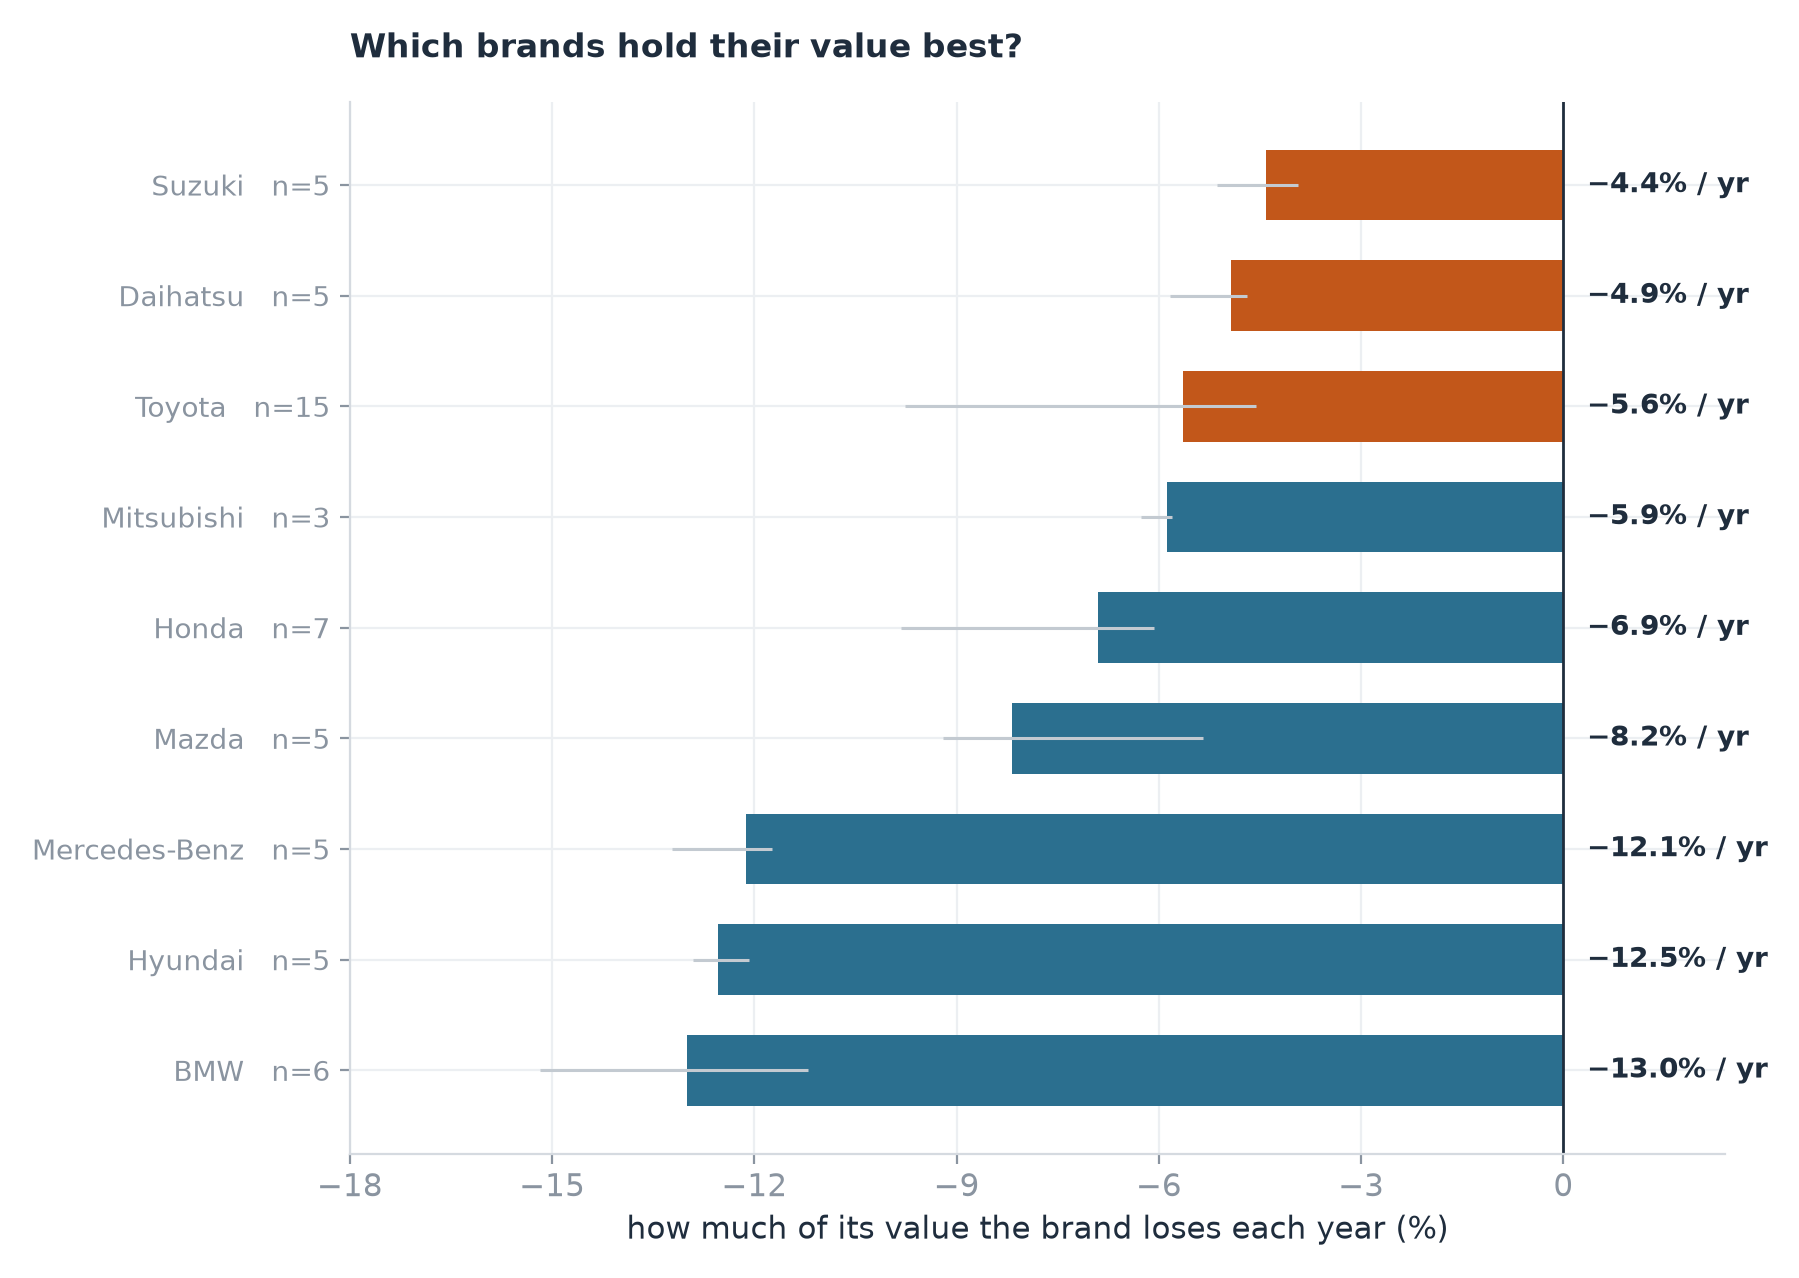
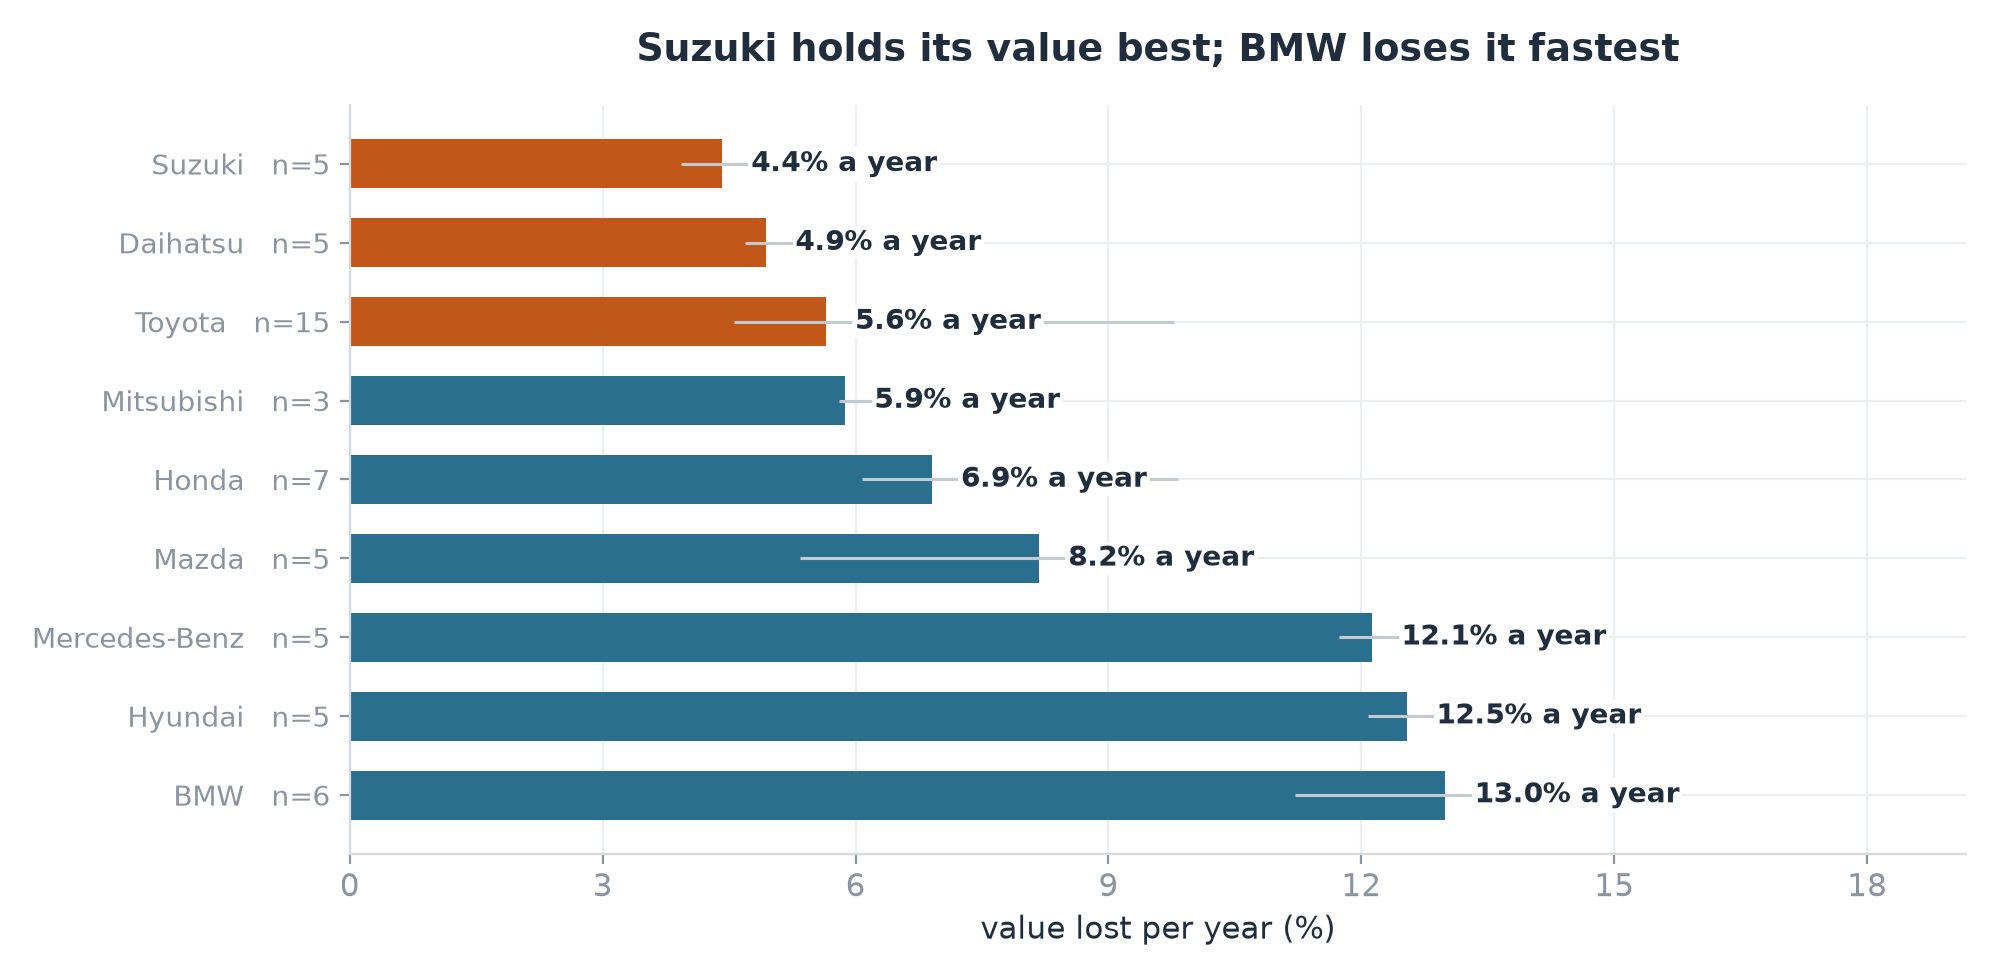
Centre every chart title and state findings instead of asking questions
Chart titles are now declarative sentences, centred and at one size, so the page reads as a set of findings rather than a quiz. The brand-retention chart plots the yearly loss as a positive number, which removes the minus signs and the ambiguity about which direction they point; its canvas is wider and shorter so it no longer runs down the page. The feature-importance chart gets the same treatment.

diff --git a/projects/02-used-car-market/eda.py b/projects/02-used-car-market/eda.py
@@ -128,19 +128,25 @@ def chart_brand_retention(series: pd.DataFrame) -> pd.DataFrame:
     )
     summary = summary[summary["count"] >= 3].sort_values("median", ascending=False)
 
-    fig, ax = plt.subplots(figsize=(9, 6.4))
+    # Plot the yearly loss as a positive number: "4.4% a year" reads better than
+    # "−4.4%", and it removes the question of which way the minus points.
+    loss = (1 - summary["median"]) * 100
+    loss_low = (1 - summary["q3"]) * 100
+    loss_high = (1 - summary["q1"]) * 100
+
+    fig, ax = plt.subplots(figsize=(10, 4.9))
     y = np.arange(len(summary))
     colors = [ACCENT if i < 3 else COOL for i in range(len(summary))]
     ax.barh(
-        y, (summary["median"] - 1) * 100,
-        xerr=[(summary["median"] - summary["q1"]) * 100,
-              (summary["q3"] - summary["median"]) * 100],
-        color=colors, height=0.64,
+        y, loss,
+        xerr=[loss - loss_low, loss_high - loss],
+        color=colors, height=0.62,
         error_kw={"ecolor": "#c3cad1", "lw": 1.1, "capsize": 0},
     )
-    for yi, (_, row) in enumerate(summary.iterrows()):
-        ax.text(0.35, yi, f"−{(1-row['median'])*100:.1f}% / yr", va="center",
-                ha="left", fontsize=10, color=INK, fontweight="bold")
+    for yi, value in enumerate(loss):
+        ax.text(value + 0.35, yi, f"{value:.1f}% a year", va="center",
+                ha="left", fontsize=10, color=INK, fontweight="bold",
+                bbox={"facecolor": "white", "edgecolor": "none", "pad": 1.0})
 
     ax.set_yticks(y)
     ax.set_yticklabels(
@@ -148,11 +154,11 @@ def chart_brand_retention(series: pd.DataFrame) -> pd.DataFrame:
         fontsize=10,
     )
     ax.invert_yaxis()
-    ax.axvline(0, color=INK, lw=1)
-    ax.set_xlim((summary["q1"].min() - 1) * 100 * 1.08, 2.4)
-    ax.set_xticks([-18, -15, -12, -9, -6, -3, 0])
-    ax.set_xlabel("how much of its value the brand loses each year (%)")
-    ax.set_title("Which brands hold their value best?", loc="left", pad=16)
+    ax.set_xlim(0, loss_high.max() + 4)
+    ax.set_xticks(range(0, 19, 3))
+    ax.set_xlabel("value lost per year (%)")
+    ax.set_title("Suzuki holds its value best; BMW loses it fastest",
+                 loc="center", pad=16, fontsize=13.5)
     fig.tight_layout()
     save(fig, "01_brand_retention.png")
     return summary
@@ -193,10 +199,10 @@ def chart_retention_curves(df: pd.DataFrame, series: pd.DataFrame) -> None:
     axes[0, 0].set_ylim(0, 145)
     axes[0, 0].set_xticks(range(1, 16, 2))
 
-    fig.suptitle("How fast each model loses value",
-                 x=0.005, y=0.985, ha="left", va="top",
+    fig.suptitle("Every model loses value at its own pace",
+                 x=0.5, y=0.975, ha="center", va="top",
                  fontsize=13.5, fontweight="bold")
-    fig.tight_layout(rect=[0, 0, 1, 0.93])
+    fig.tight_layout(rect=[0, 0, 1, 0.92])
     save(fig, "02_retention_curves.png")
 
 
@@ -279,9 +285,9 @@ def chart_transmission(df: pd.DataFrame, cells: pd.DataFrame) -> None:
     ax2.set_title("B. Comparing the same model and year", loc="left", pad=12)
 
     fig.suptitle("Automatic cars only look expensive until you compare like with like",
-                 x=0.005, y=0.985, ha="left", va="top",
-                 fontsize=14, fontweight="bold")
-    fig.tight_layout(rect=[0, 0, 1, 0.93])
+                 x=0.5, y=0.975, ha="center", va="top",
+                 fontsize=13.5, fontweight="bold")
+    fig.tight_layout(rect=[0, 0, 1, 0.92])
     save(fig, "03_transmission_premium.png")
 
 
@@ -356,9 +362,9 @@ def chart_mileage(df: pd.DataFrame) -> dict:
              fontsize=11, color=ACCENT, fontweight="bold")
 
     fig.suptitle("High mileage looks expensive — until you compare the same model",
-                 x=0.005, y=0.985, ha="left", va="top",
-                 fontsize=14, fontweight="bold")
-    fig.tight_layout(rect=[0, 0, 1, 0.93])
+                 x=0.5, y=0.975, ha="center", va="top",
+                 fontsize=13.5, fontweight="bold")
+    fig.tight_layout(rect=[0, 0, 1, 0.92])
     save(fig, "04_mileage_illusion.png")
     return {"gaps": gaps, "raw": raw}
 
@@ -399,9 +405,9 @@ def chart_structure(df: pd.DataFrame) -> None:
     axes[2].set_xlabel("% of listings")
     axes[2].set_title("Brand origin", loc="left", pad=10)
 
-    fig.suptitle("What the marketplace actually contains",
-                 x=0.005, ha="left", fontsize=14, fontweight="bold")
-    fig.tight_layout(rect=[0, 0, 1, 0.92])
+    fig.suptitle("The marketplace is mostly SUVs from Japanese brands",
+                 x=0.5, ha="center", fontsize=13.5, fontweight="bold")
+    fig.tight_layout(rect=[0, 0, 1, 0.90])
     save(fig, "05_market_structure.png")
 
 

diff --git a/projects/02-used-car-market/model.py b/projects/02-used-car-market/model.py
@@ -378,9 +378,9 @@ def main() -> None:
     axb.set_title("B. Which badge carries a premium", loc="left", pad=12)
 
     fig.suptitle("Where a car is sold hardly matters. Which car it is, matters a lot.",
-                 x=0.005, y=0.985, ha="left", va="top",
+                 x=0.5, y=0.975, ha="center", va="top",
                  fontsize=13.5, fontweight="bold")
-    fig.tight_layout(rect=[0, 0, 1, 0.93])
+    fig.tight_layout(rect=[0, 0, 1, 0.92])
     fig.savefig(IMAGES / "07_location_and_brand.png", bbox_inches="tight",
                 pad_inches=0.16, facecolor="white")
     plt.close(fig)
@@ -396,8 +396,8 @@ def main() -> None:
     ax.set_yticklabels([f"{b} {m}" for b, m in pick.index], fontsize=9)
     ax.axvline(0, color=INK, lw=1)
     ax.set_xlabel("price compared with what the car's specifications suggest (%)")
-    ax.set_title("Which models look cheap — or expensive — for what they offer",
-                 loc="left", pad=14)
+    ax.set_title("Some models sell far below what their specifications suggest",
+                 loc="center", pad=14, fontsize=13.5)
     fig.tight_layout()
     fig.savefig(IMAGES / "08_model_bargains.png", bbox_inches="tight",
                 pad_inches=0.16, facecolor="white")
@@ -420,7 +420,7 @@ def main() -> None:
         "flag_service_record": "text: service history",
         "flag_nego": "text: negotiable",
     }
-    fig, ax = plt.subplots(figsize=(9.5, 6.2))
+    fig, ax = plt.subplots(figsize=(10, 4.9))
     top = order[:12][::-1]
     ax.barh(np.arange(len(top)), imp.importances_mean[top], color=COOL, height=0.68,
             xerr=imp.importances_std[top], error_kw={"ecolor": "#c3cad1", "lw": 1})
@@ -428,8 +428,8 @@ def main() -> None:
     ax.set_yticklabels([DISPLAY.get(names[i], names[i]) for i in top], fontsize=10)
     ax.set_xlabel("how much worse the prediction gets without this detail\n"
                   "(higher = the price depends on it more)")
-    ax.set_title("Which details the asking price actually depends on",
-                 loc="left", pad=14)
+    ax.set_title("The price depends on the brand, the model and the engine",
+                 loc="center", pad=14, fontsize=13.5)
     fig.tight_layout()
     IMAGES.mkdir(exist_ok=True)
     fig.savefig(IMAGES / "06_feature_importance.png", bbox_inches="tight",
